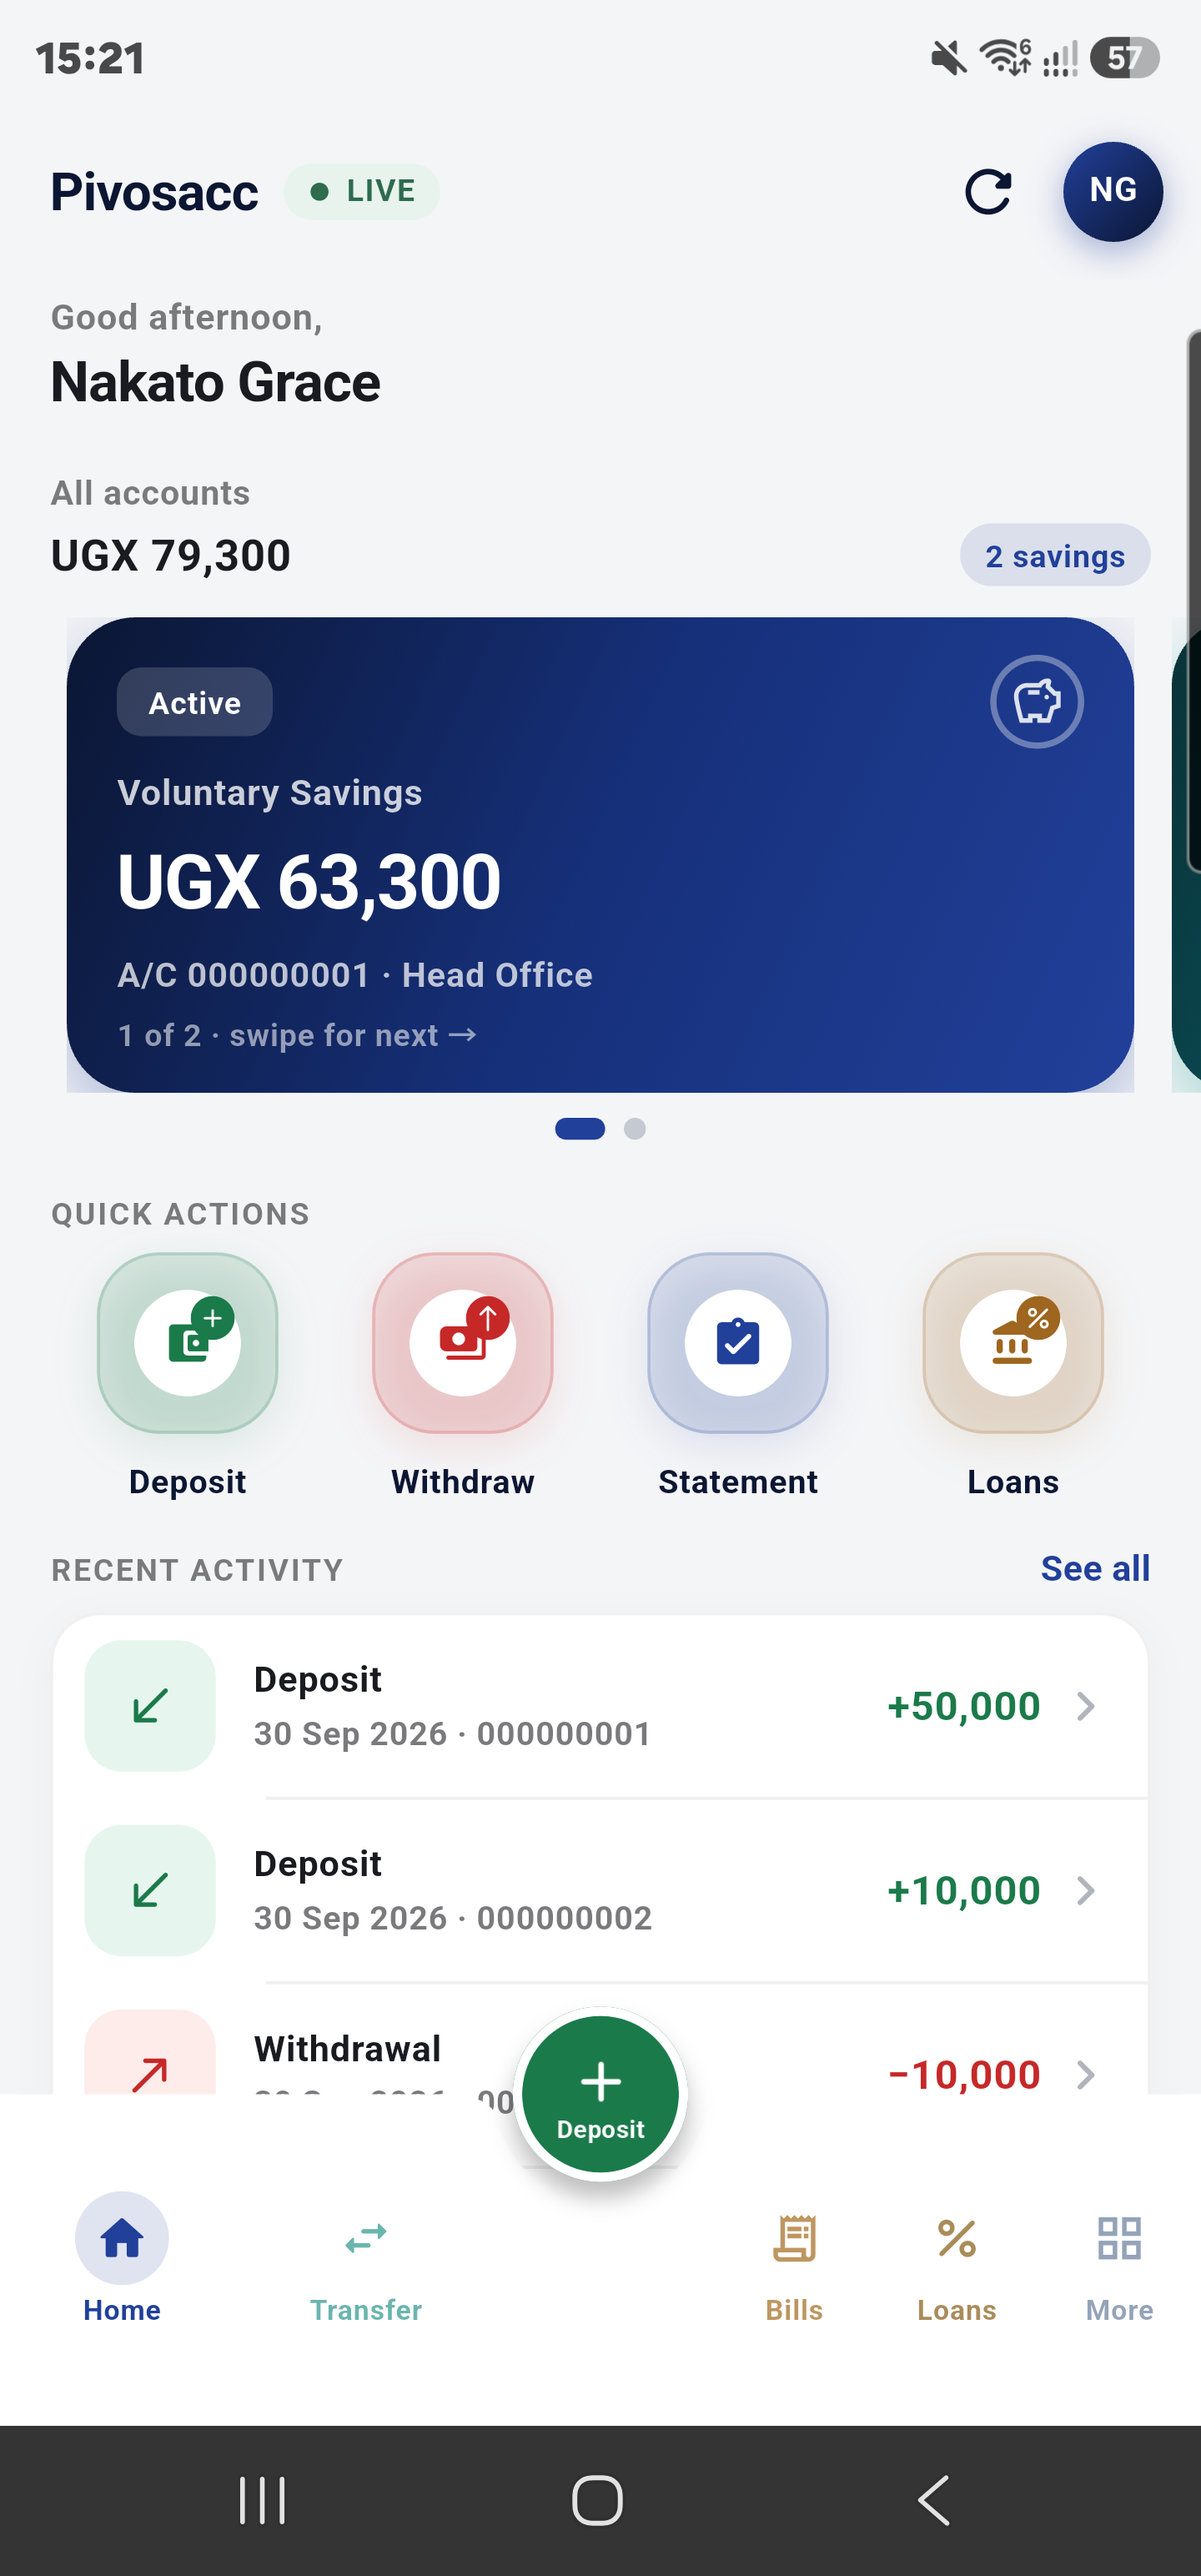
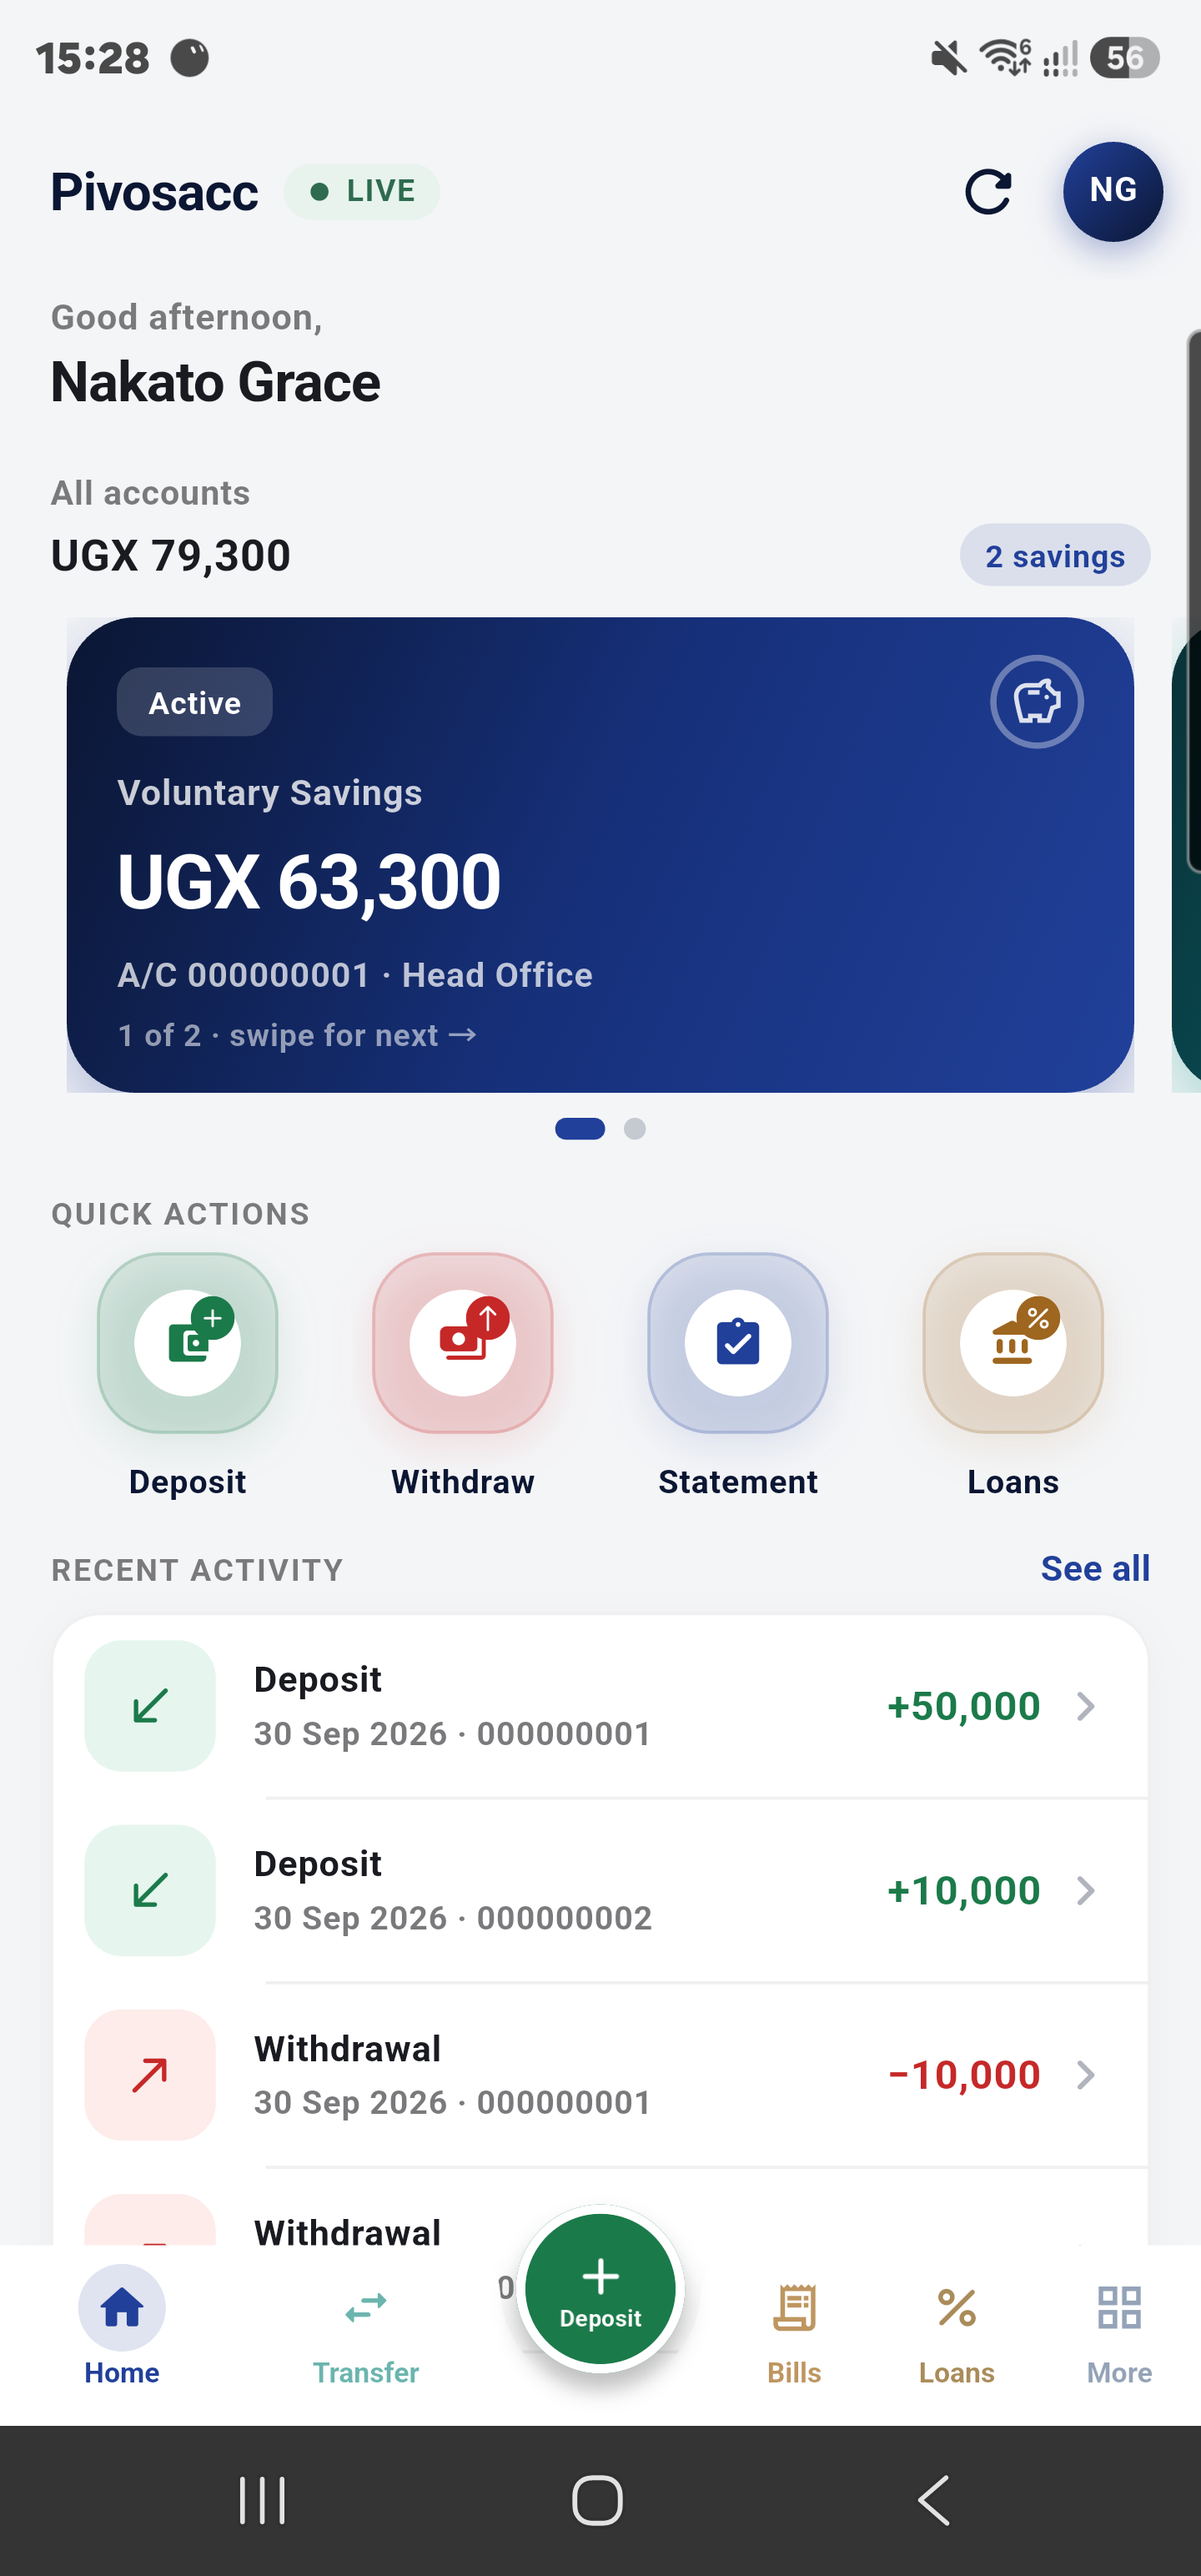
Lower Option B dock and lock tab label baselines (v1.0.9)
Sink center-docked Deposit FAB deeper into the notch; shrink empty
foot padding so tabs sit closer to system nav. Fixed icon/label slot
heights with StrutStyle so Home/Transfer/Bills/Loans/More share one
baseline. Keep equal L/R panes for centered notch.

diff --git a/mobile_flutter/lib/screens/shell_screen.dart b/mobile_flutter/lib/screens/shell_screen.dart
@@ -168,7 +168,7 @@ class _ShellScreenState extends State<ShellScreen> {
         selected: depositActive,
         onTap: () => _navigate('deposit'),
       ),
-      floatingActionButtonLocation: FloatingActionButtonLocation.centerDocked,
+      floatingActionButtonLocation: const _LowerCenterDockedFabLocation(),
       bottomNavigationBar: _CenterNotchDock(
         selectedIndex: depositActive ? -1 : _tab,
         onSelect: (i) {
@@ -184,8 +184,7 @@ class _ShellScreenState extends State<ShellScreen> {
 }
 
 /// Option B — full-width notched bar.
-/// Equal Expanded panes L/R so the FAB notch is truly screen-centered
-/// (fixes Bills being covered when 2 vs 3 Expanded shared one Row).
+/// Equal Expanded panes L/R keep the FAB notch screen-centered.
 class _CenterNotchDock extends StatelessWidget {
   const _CenterNotchDock({required this.selectedIndex, required this.onSelect});
   final int selectedIndex;
@@ -201,31 +200,34 @@ class _CenterNotchDock extends StatelessWidget {
     _NavSpec('More', Icons.grid_view_outlined, Icons.grid_view_rounded, PivoColors.navMore, PivoColors.navMoreMuted),
   ];
 
-  /// Must match FAB diameter + breathing room so labels never sit under the FAB.
   static const double _notchGap = 72;
+  static const double _barContentH = 52;
 
   @override
   Widget build(BuildContext context) {
-    final bottom = MediaQuery.paddingOf(context).bottom;
+    // System 3-button / gesture bar is usually OUTSIDE the app window.
+    // Only keep a few px so labels sit low — avoid a tall empty white slab.
+    final inset = MediaQuery.paddingOf(context).bottom;
+    final foot = inset > 0 ? (inset * 0.12).clamp(2.0, 6.0) : 4.0;
     return BottomAppBar(
       color: Colors.white,
       elevation: 10,
       shadowColor: Colors.black26,
       surfaceTintColor: Colors.white,
       padding: EdgeInsets.zero,
-      height: 58 + bottom,
+      height: _barContentH + foot,
       shape: const CircularNotchedRectangle(),
-      notchMargin: 6,
-      child: SafeArea(
-        top: false,
-        minimum: EdgeInsets.zero,
+      notchMargin: 5,
+      child: Padding(
+        padding: EdgeInsets.only(bottom: foot),
         child: SizedBox(
-          height: 58,
+          height: _barContentH,
           child: Row(
+            crossAxisAlignment: CrossAxisAlignment.end,
             children: [
-              // Left half — Home, Transfer (equal share of left pane)
               Expanded(
                 child: Row(
+                  crossAxisAlignment: CrossAxisAlignment.end,
                   children: [
                     for (var i = 0; i < _left.length; i++)
                       Expanded(
@@ -238,11 +240,10 @@ class _CenterNotchDock extends StatelessWidget {
                   ],
                 ),
               ),
-              // Center gap aligned with center-docked FAB
               const SizedBox(width: _notchGap),
-              // Right half — Bills, Loans, More (equal share of right pane)
               Expanded(
                 child: Row(
+                  crossAxisAlignment: CrossAxisAlignment.end,
                   children: [
                     for (var i = 0; i < _right.length; i++)
                       Expanded(
@@ -272,11 +273,22 @@ class _NavSpec {
   final Color muted;
 }
 
+/// Fixed icon + label slots so every tab shares the same baselines.
 class _DockTab extends StatelessWidget {
   const _DockTab({required this.spec, required this.selected, required this.onTap});
   final _NavSpec spec;
   final bool selected;
   final VoidCallback onTap;
+
+  static const double _iconSlot = 28;
+  static const double _labelSlot = 14;
+  static const TextStyle _labelStyle = TextStyle(
+    fontSize: 9,
+    height: 1.0,
+    fontWeight: FontWeight.w600,
+    letterSpacing: 0,
+    leadingDistribution: TextLeadingDistribution.even,
+  );
 
   @override
   Widget build(BuildContext context) {
@@ -285,41 +297,66 @@ class _DockTab extends StatelessWidget {
       color: Colors.transparent,
       child: InkWell(
         onTap: onTap,
-        child: Column(
-          mainAxisAlignment: MainAxisAlignment.center,
-          children: [
-            if (selected)
-              Container(
-                width: 30,
-                height: 30,
-                alignment: Alignment.center,
-                decoration: BoxDecoration(
-                  color: spec.color.withValues(alpha: 0.14),
-                  shape: BoxShape.circle,
+        child: SizedBox(
+          height: _iconSlot + 2 + _labelSlot + 6,
+          child: Padding(
+            padding: const EdgeInsets.only(bottom: 2),
+            child: Column(
+              mainAxisAlignment: MainAxisAlignment.end,
+              children: [
+                SizedBox(
+                  width: _iconSlot,
+                  height: _iconSlot,
+                  child: DecoratedBox(
+                    decoration: BoxDecoration(
+                      color: selected ? spec.color.withValues(alpha: 0.14) : Colors.transparent,
+                      shape: BoxShape.circle,
+                    ),
+                    child: Icon(
+                      selected ? spec.filled : spec.outlined,
+                      size: 18,
+                      color: color,
+                    ),
+                  ),
                 ),
-                child: Icon(spec.filled, size: 18, color: color),
-              )
-            else
-              SizedBox(
-                width: 30,
-                height: 30,
-                child: Icon(spec.outlined, size: 18, color: color),
-              ),
-            const SizedBox(height: 1),
-            Text(
-              spec.label,
-              maxLines: 1,
-              overflow: TextOverflow.ellipsis,
-              style: TextStyle(
-                fontSize: 9,
-                fontWeight: selected ? FontWeight.w700 : FontWeight.w600,
-                color: color,
-              ),
+                const SizedBox(height: 2),
+                SizedBox(
+                  height: _labelSlot,
+                  width: double.infinity,
+                  child: Text(
+                    spec.label,
+                    maxLines: 1,
+                    softWrap: false,
+                    overflow: TextOverflow.ellipsis,
+                    textAlign: TextAlign.center,
+                    style: _labelStyle.copyWith(color: color),
+                    strutStyle: const StrutStyle(
+                      fontSize: 9,
+                      height: 1.0,
+                      forceStrutHeight: true,
+                      leadingDistribution: TextLeadingDistribution.even,
+                    ),
+                  ),
+                ),
+              ],
             ),
-          ],
+          ),
         ),
       ),
     );
+  }
+}
+
+/// Slightly lower than default centerDocked so FAB sits deeper in the notch.
+class _LowerCenterDockedFabLocation extends FloatingActionButtonLocation {
+  const _LowerCenterDockedFabLocation();
+
+  static const double _sink = 14;
+
+  @override
+  Offset getOffset(ScaffoldPrelayoutGeometry geometry) {
+    final base = FloatingActionButtonLocation.centerDocked.getOffset(geometry);
+    return Offset(base.dx, base.dy + _sink);
   }
 }
 
@@ -331,8 +368,8 @@ class _DepositFab extends StatelessWidget {
   @override
   Widget build(BuildContext context) {
     return SizedBox(
-      width: 56,
-      height: 56,
+      width: 54,
+      height: 54,
       child: FloatingActionButton(
         onPressed: () {
           HapticFeedback.mediumImpact();
@@ -348,10 +385,10 @@ class _DepositFab extends StatelessWidget {
         child: const Column(
           mainAxisAlignment: MainAxisAlignment.center,
           children: [
-            Icon(Icons.add_rounded, size: 22),
+            Icon(Icons.add_rounded, size: 20),
             Text(
               'Deposit',
-              style: TextStyle(fontSize: 8, fontWeight: FontWeight.w800, height: 1),
+              style: TextStyle(fontSize: 7.5, fontWeight: FontWeight.w800, height: 1),
             ),
           ],
         ),
